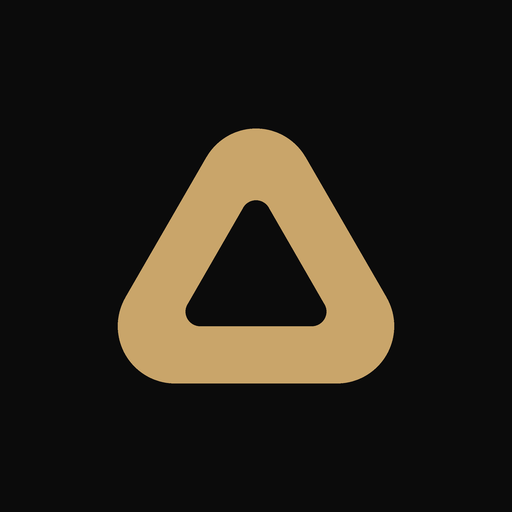
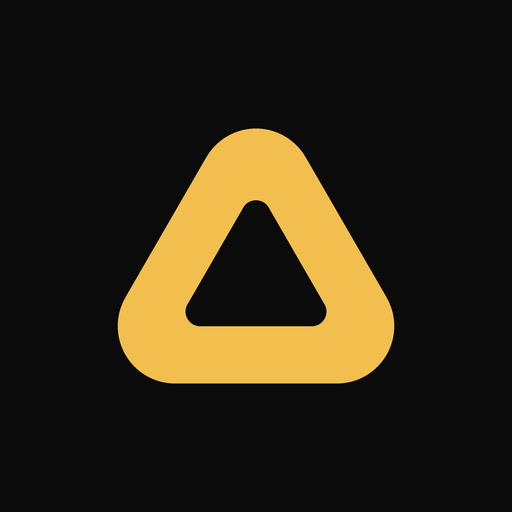
Иконки: золотой знак на зелёном (магазин), яркое золото на чёрном (панель)
Claude-Session: https://claude.ai/code/session_013wUk4EA5KnT2Eun5wjG91A

Changed region(s): [[0.2188, 0.25, 0.7812, 0.75]]

diff --git a/sw.js b/sw.js
@@ -1,7 +1,7 @@
 // AMURA: сайт открывается мгновенно, как приложение.
 // Страница и фото — из памяти телефона сразу, в фоне обновляются.
 // Живые остатки, заказы и вход (сервер) — только из сети, не кэшируются.
-const V = "amura-v29";
+const V = "amura-v30";
 self.addEventListener("install", e => { self.skipWaiting(); e.waitUntil(caches.open(V).then(c => c.addAll(["./", "index.html", "manifest.webmanifest", "icon-192.png", "icon-180.png"]))); });
 self.addEventListener("activate", e => { e.waitUntil(caches.keys().then(ks => Promise.all(ks.filter(k => k !== V).map(k => caches.delete(k)))).then(() => self.clients.claim())); });
 self.addEventListener("fetch", e => {
